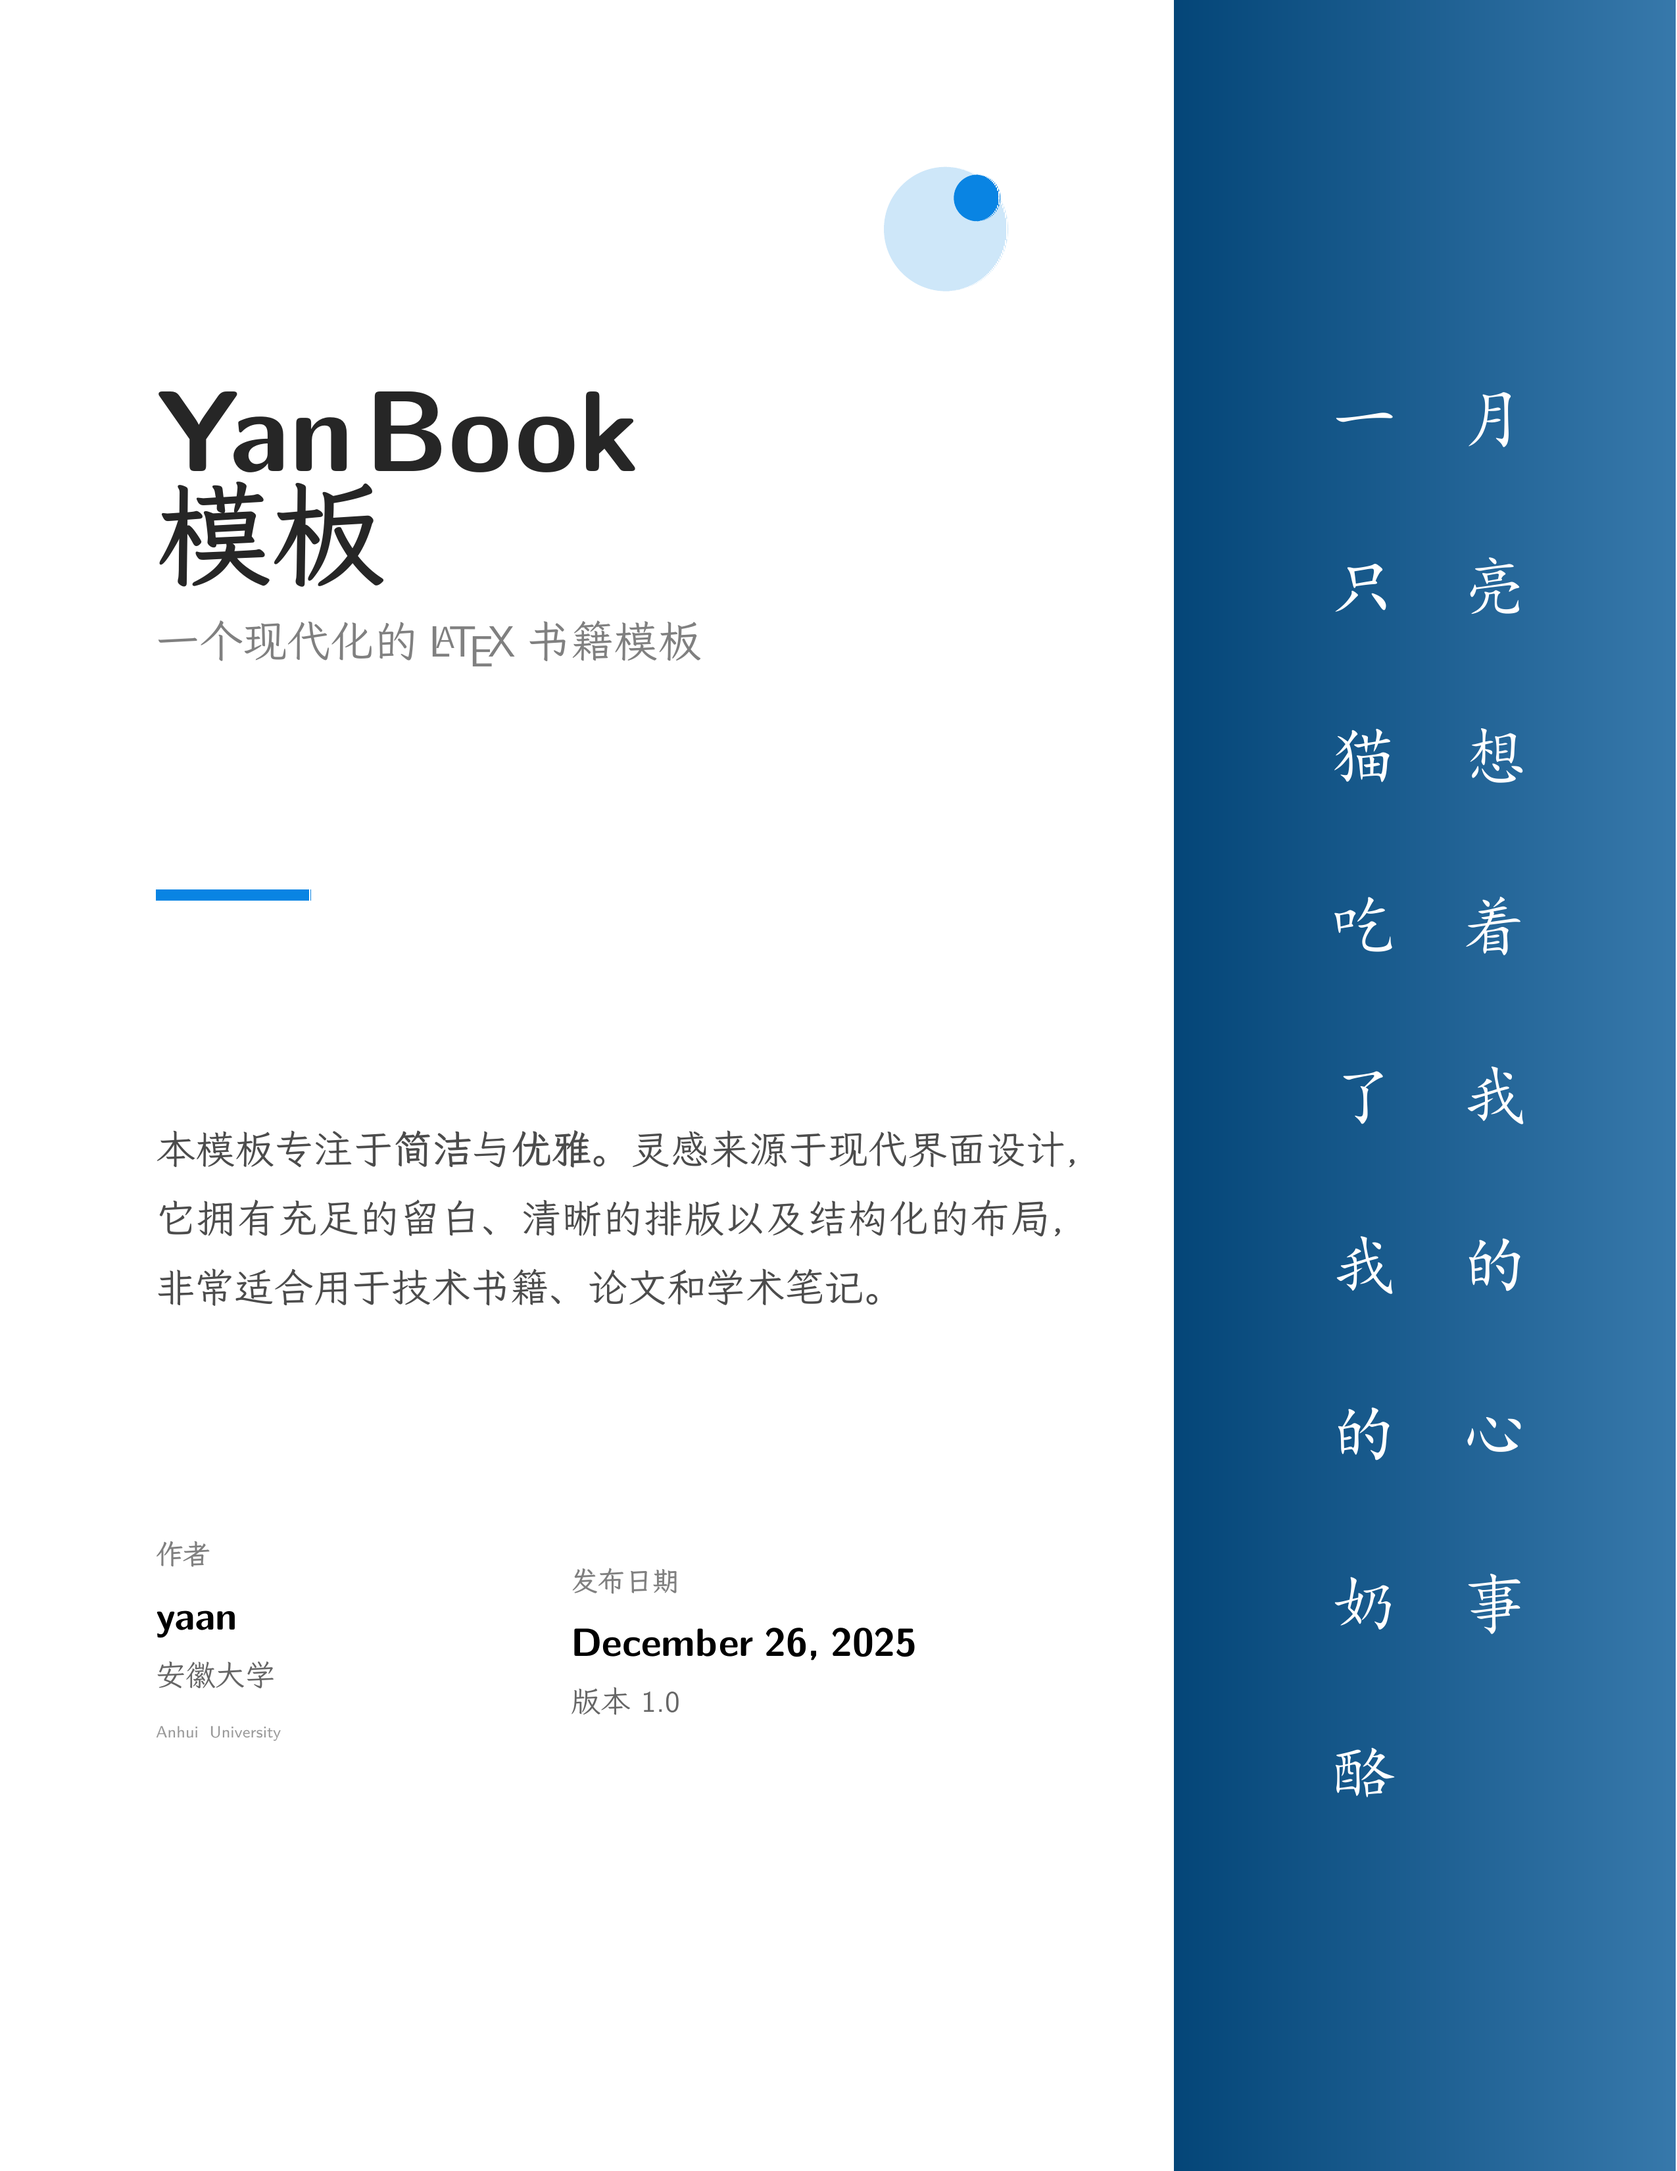
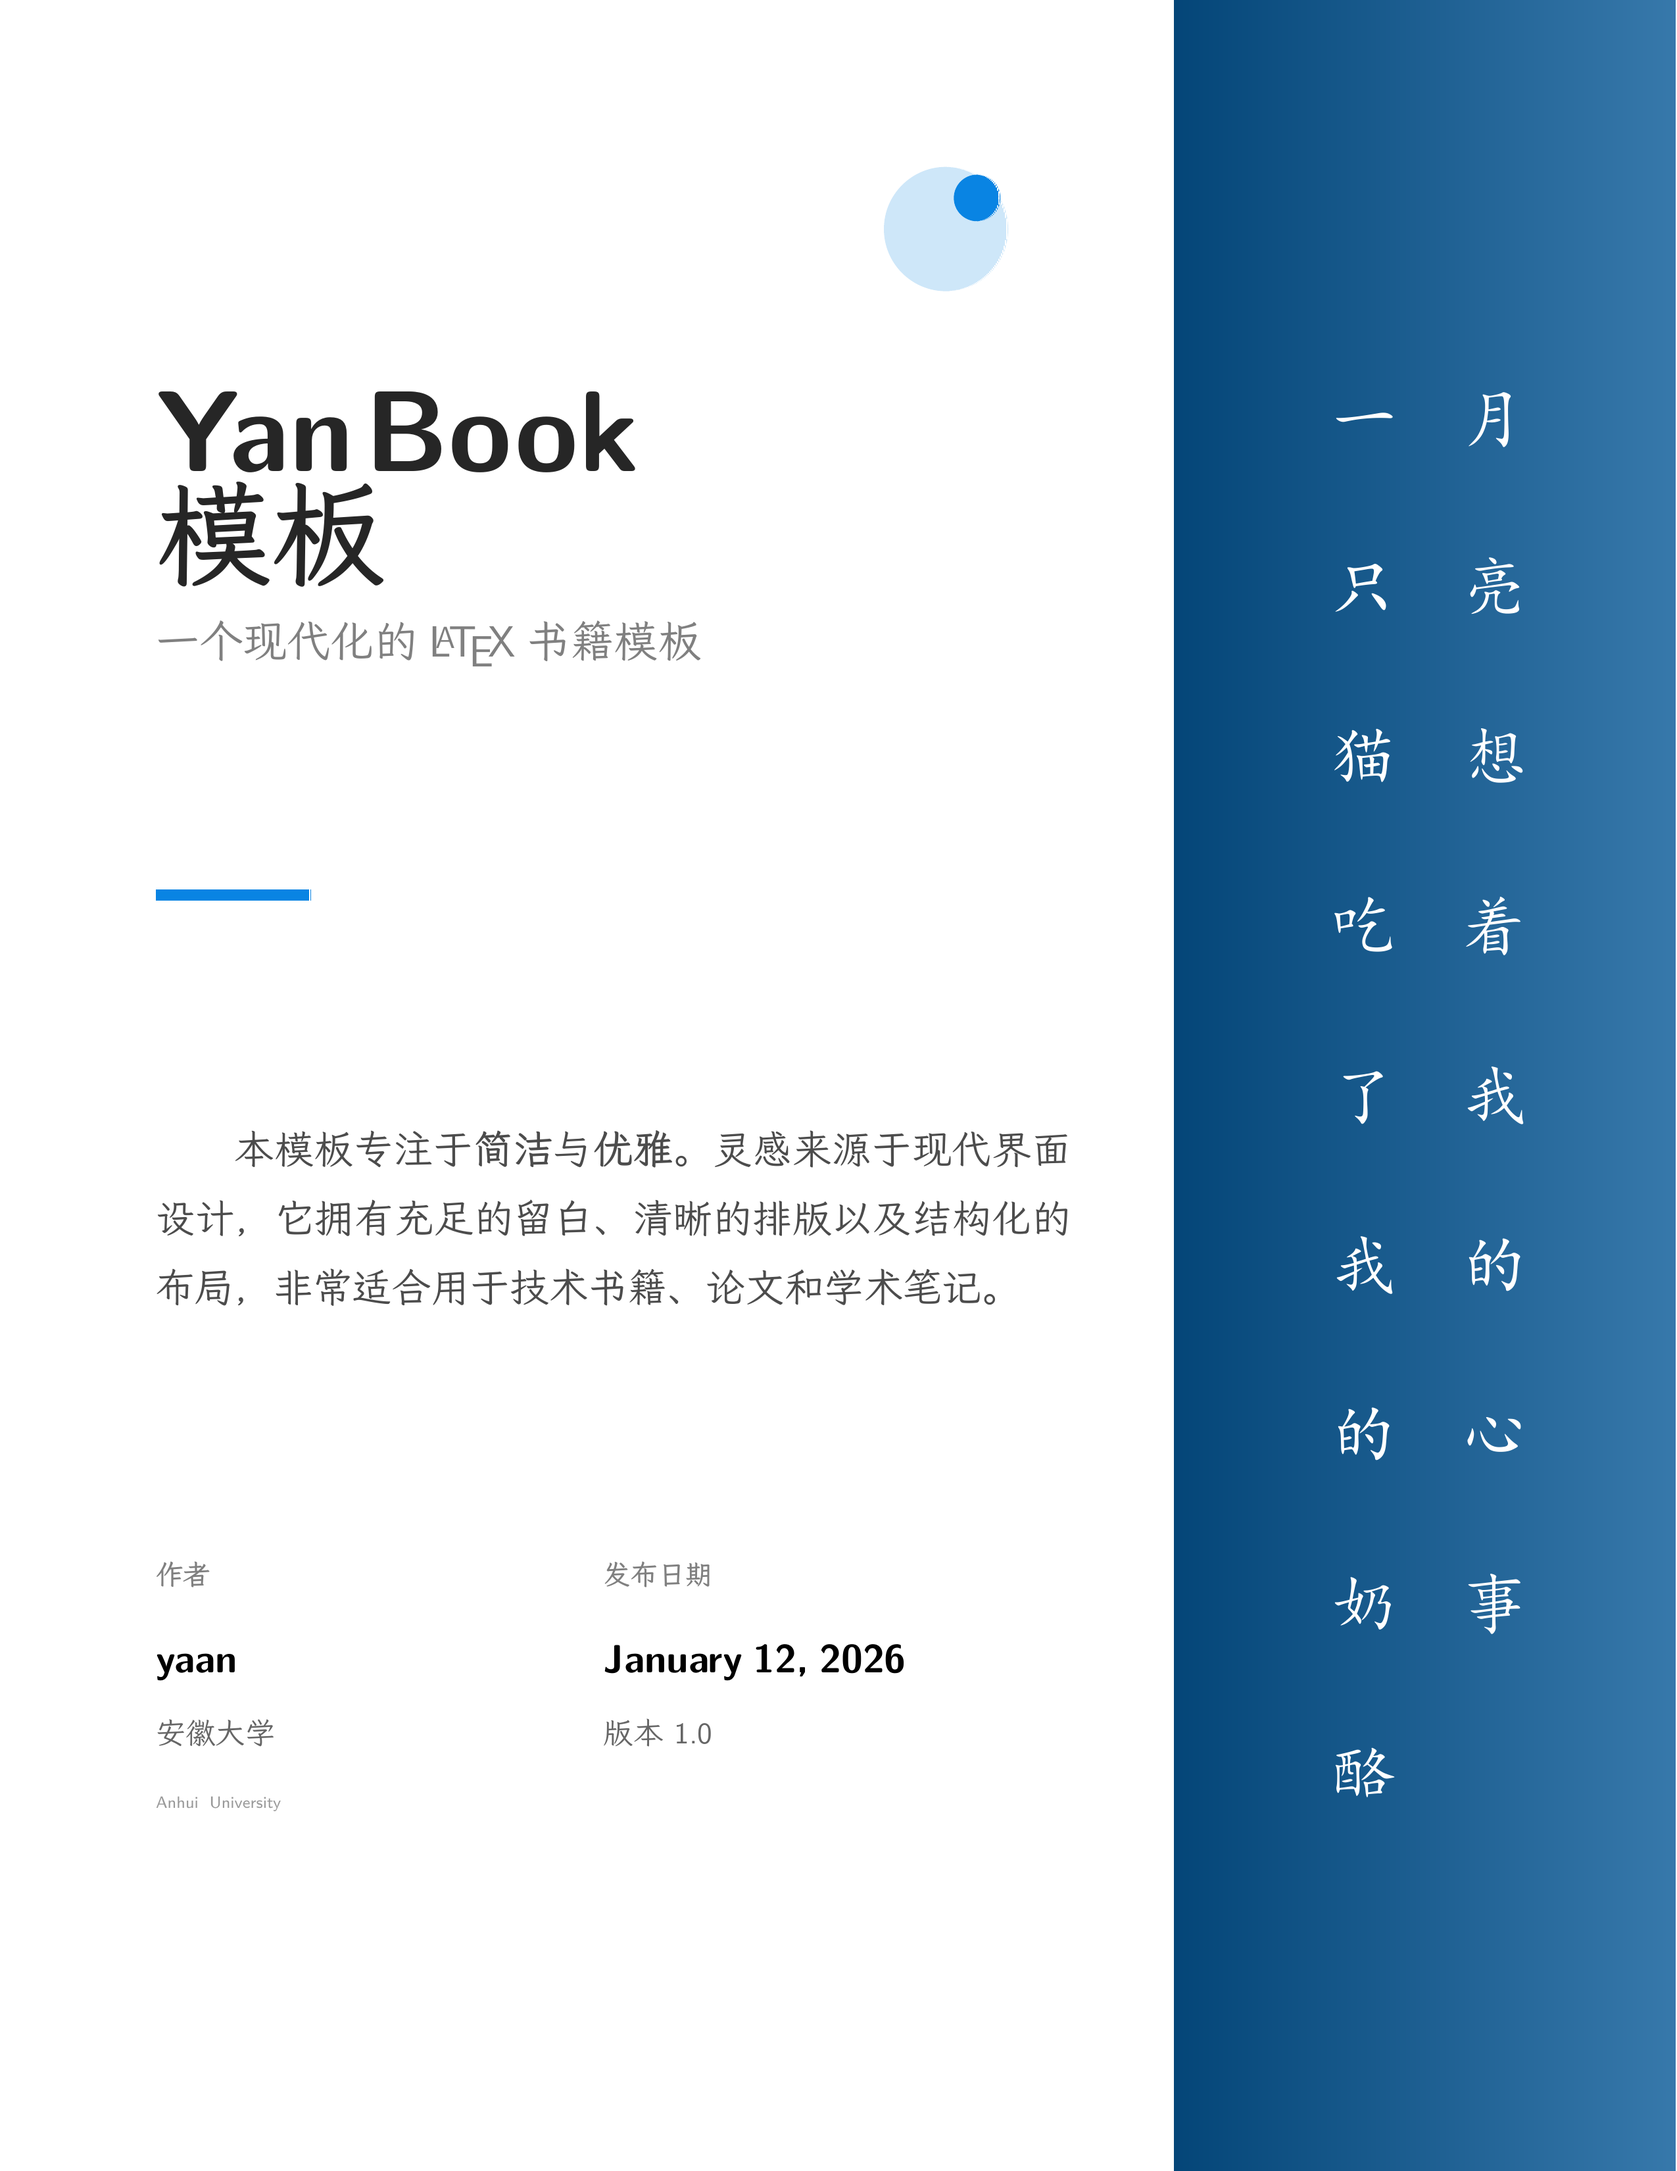
修复封面

Changed region(s): [[0.0929, 0.4994, 0.6506, 0.6242], [0.3408, 0.7179, 0.5576, 0.8115], [0.0929, 0.7179, 0.1549, 0.8115]]

diff --git a/contents/cover.tex b/contents/cover.tex
@@ -3,26 +3,22 @@
     \thispagestyle{empty}
     
     \begin{tikzpicture}[remember picture, overlay]
-        % 1. 右侧面板：渐变色背景，贯穿整个页面，无阴影
-        % 计算分割点，假设左侧占 70%
+        % 1. 右侧面板：渐变色背景
         \coordinate (split top) at ($(current page.north west)!0.7!(current page.north east)$);
         \coordinate (split bottom) at ($(current page.south west)!0.7!(current page.south east)$);
         
-        % 使用渐变色
         \shade[
             left color=yancovercolor!80!black, 
             right color=yancovercolor!80!white,
             shading angle=90
         ] (split top) rectangle (current page.south east);
         
-        % 2. 右侧内容：竖排文字，白色
+        % 2. 右侧内容：竖排文字
         \node[anchor=center] at ($(split top)!0.5!(current page.south east)$) {
-            % 尝试使用楷体，如果未定义则定义
             \ifx\kaishu\undefined
                 \newCJKfontfamily\kaishu{KaiTi}
             \fi
             \fontsize{24}{40}\selectfont \kaishu \color{white}
-            % 使用表格模拟竖排，从右向左读
             \begin{tabular}{@{}c@{\hspace{1em}}c@{}}
                 一 & 月 \\
                 只 & 亮 \\
@@ -36,21 +32,18 @@
             \end{tabular}
         };
         
-        % 3. 左侧面板：白色背景，贯穿整个页面，有阴影
+        % 3. 左侧面板背景
         \node[
             fill=white,
             anchor=north west,
             minimum height=\paperheight,
             minimum width=0.7\paperwidth,
             inner sep=0pt,
-            % 阴影投向右侧
-            % drop shadow={opacity=0.2, shadow xshift=10pt, shadow yshift=0pt}
         ] at (current page.north west) (leftpanel) {};
         
         % 4. 左侧内容
         \node[anchor=north west, inner sep=2cm, text width=0.55\paperwidth] at (leftpanel.north west) {
             
-            % 顶部留白
             \vspace{3cm}
             
             % 标题
@@ -65,27 +58,33 @@
             
             % 摘要
             {\sffamily \large \color{black!70} \setstretch{1.4}
-            本模板专注于\textbf{简洁}与\textbf{优雅}。
+            \qquad{}本模板专注于\textbf{简洁}与\textbf{优雅}。
             灵感来源于现代界面设计，它拥有充足的留白、
             清晰的排版以及结构化的布局，非常适合用于技术书籍、
             论文和学术笔记。
             \par}\vspace{3cm}
             
-            % 底部信息
-            \begin{minipage}{0.45\textwidth}
-                {\sffamily \bfseries \footnotesize \textcolor{gray}{作者}}\\[0.5em]
-                {\sffamily \large \textbf{yaan}}\\[0.2em]
-                {\sffamily \small \textcolor{black!60}{安徽大学}}\\[0.1em]
-                {\sffamily \tiny \textcolor{black!40}{Anhui University}}
-            \end{minipage}%
-            \begin{minipage}{0.45\textwidth}
-                {\sffamily \bfseries \footnotesize \textcolor{gray}{发布日期}}\\[0.5em]
-                {\sffamily \large \textbf{\today}}\\[0.2em]
-                {\sffamily \small \textcolor{black!60}{版本 1.0}}
-            \end{minipage}
+            % ==========================================
+            % 修改部分：底部信息改为表格对齐
+            % ==========================================
+            \noindent
+            \begin{tabular}{@{} p{0.45\linewidth} p{0.45\linewidth} @{}}
+                {\sffamily \bfseries \footnotesize \textcolor{gray}{作者}} & 
+                {\sffamily \bfseries \footnotesize \textcolor{gray}{发布日期}} \\[0.8em]
+                
+                {\sffamily \large \textbf{yaan}} & 
+                {\sffamily \large \textbf{\today}} \\[0.3em]
+                
+                {\sffamily \small \textcolor{black!60}{安徽大学}} & 
+                {\sffamily \small \textcolor{black!60}{版本 1.0}} \\[0.1em]
+                
+                {\sffamily \tiny \textcolor{black!40}{Anhui University}} & 
+                {} 
+            \end{tabular}
+            % ==========================================
         };
 
-        % 5. 装饰元素：左侧面板右上角的极简几何图形
+        % 5. 装饰元素
         \node[anchor=north east, xshift=-2cm, yshift=-2cm] at (leftpanel.north east) {
             \begin{tikzpicture}
                 \fill[amzchaptercolor!20] (0,0) circle (0.8cm);
